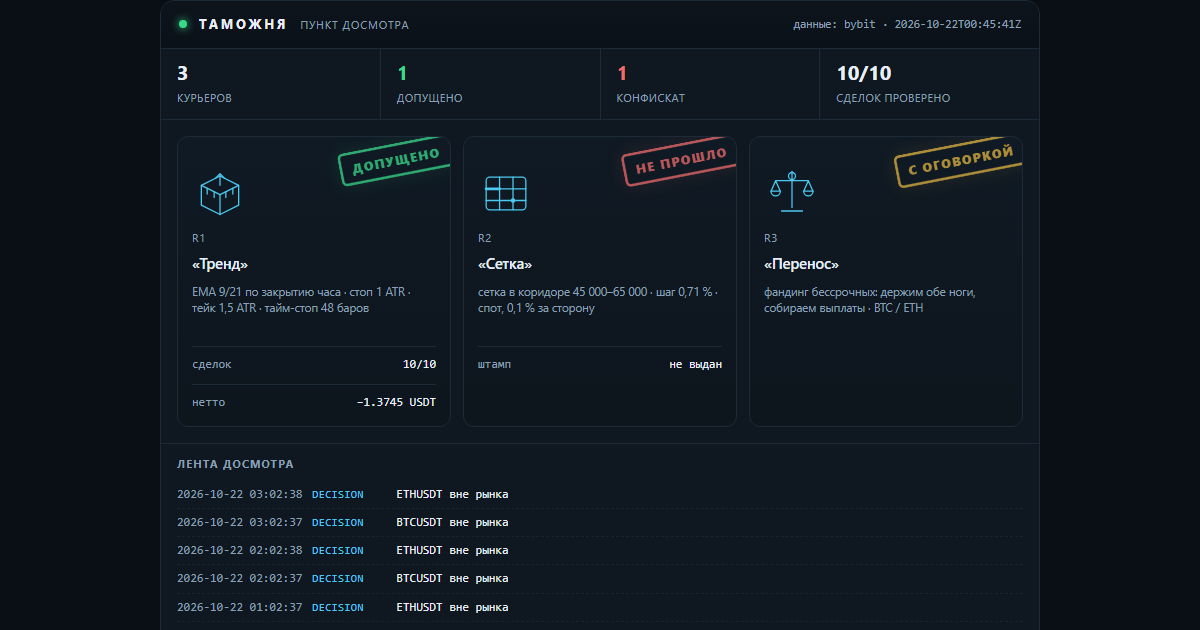
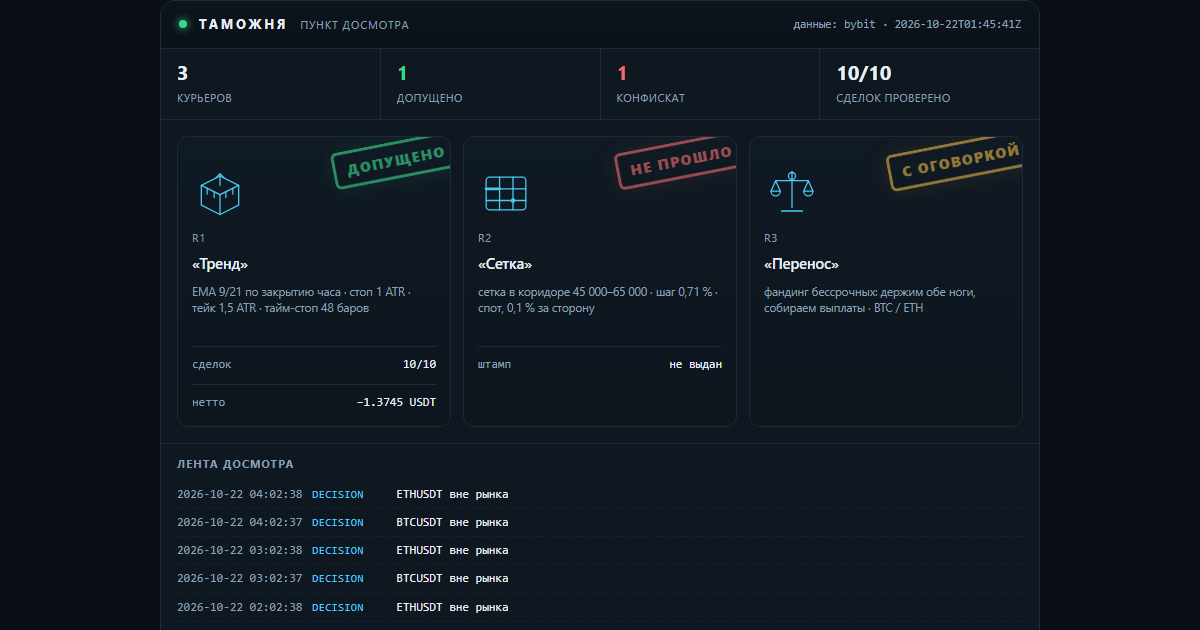
lab: таможня — свежие числа досмотра

Changed region(s): [[0.74, 0.2111, 0.8633, 0.3016], [0.4933, 0.2111, 0.6167, 0.3016], [0.2775, 0.2111, 0.37, 0.3016]]

diff --git a/docs/customs.html b/docs/customs.html
@@ -16,7 +16,7 @@
   <h1><a href="index.html">Gramwright Lab</a></h1>
   <p>Журнал проверки торговых гипотез: что проверяли, что вышло по факту, сколько съели издержки. Числа берутся из журнала стенда. Не инвестиционная рекомендация.</p>
 </header>
-<h1>Таможня</h1><p class="intro">Пункт досмотра заявленных результатов. Стратегии приезжают с грузом обещаний, и каждая проходит проверку по публичным данным биржи: цены существуют, комиссии по тарифу, нетто сходится. Что прошло — получает штамп. Что не прошло — в конфискат, с причиной. Штамп означает «записи подлинные», а не «стратегия прибыльна».</p><p><img src="img/customs.png" alt="Терминал досмотра: три курьера, штампы, лента событий" style="width:100%;height:auto;border:1px solid var(--line);border-radius:10px"></p><p class="c-note">Сверху — тот же терминал, что собирается из журналов: счётчики, эмблемы курьеров, штампы и лента последних событий. Ниже — то же самое текстом, чтобы читалось с телефона и индексировалось поиском.</p><article><h2>R1 «Тренд» <span class="verdict">— <span class="c-ok">допущено</span></span></h2><p><strong>Правило:</strong> EMA 9/21 по закрытию часа · стоп 1 ATR · тейк 1,5 ATR · тайм-стоп 48 баров</p><p><strong>Декларация:</strong> Заявлено до прогона: держать 30 сделок, лимит нотионала 10 % от счёта, стоп дня −1 %. Прибыль не заявлялась — это важно: курьер не обещал доход.</p><p><strong>Проверено по публичным свечам, без ключей:</strong> 10 из 10 сделок. Сумма нетто −1.3745 USDT.</p><ul class="c-chk"><li class="y">BTCUSDT: нетто −0.8746 USDT · комиссии 0.0901 · проверено · с поправкой</li><li class="y">BTCUSDT: нетто −0.5441 USDT · комиссии 0.0896 · проверено</li><li class="y">ETHUSDT: нетто −0.2253 USDT · комиссии 0.0266 · проверено</li><li class="y">ETHUSDT: нетто −0.1513 USDT · комиссии 0.0265 · проверено</li><li class="y">ETHUSDT: нетто +0.1984 USDT · комиссии 0.0262 · проверено</li><li class="y">ETHUSDT: нетто +0.1617 USDT · комиссии 0.0260 · проверено</li><li class="y">ETHUSDT: нетто +0.2645 USDT · комиссии 0.0263 · проверено</li><li class="y">BTCUSDT: нетто +0.6246 USDT · комиссии 0.0897 · проверено</li><li class="y">BTCUSDT: нетто −0.5881 USDT · комиссии 0.0910 · проверено</li><li class="y">ETHUSDT: нетто −0.2403 USDT · комиссии 0.0270 · проверено</li></ul><p class="tags">журнал sha256 1f1fe0cc887e8795… · проверяльщик verify-1</p><p class="c-note">Штамп означает: записи подлинные, а не что стратегия прибыльна. Курьер в минусе, и минус тоже стоит на штампе — иначе это была бы не проверка, а реклама.</p><p class="tags">источник: verify-report.json</p></article><article><h2>R2 «Сетка» <span class="verdict">— <span class="c-bad">не прошло</span></span></h2><p><strong>Правило:</strong> сетка в коридоре 45 000–65 000 · шаг 0,71 % · спот, 0,1 % за сторону</p><p><strong>Декларация:</strong> Заявлено: «44 % урожая уходит бирже в виде комиссий». Кроме того — перевес над простым владением монетой.</p><p><strong>Что сошлось:</strong></p><ul class="c-chk"><li class="y">сами числа пересчитаны и воспроизводятся: коридор 45–65k был активен 23 % всей истории и 28 % последних двух лет</li></ul><p><strong>Что не сошлось:</strong></p><ul class="c-chk"><li class="n">44 % не подтвердилось: при шаге 0,71 % и тарифе 0,1 % комиссия съедает 28,3 % шага. Чтобы получить 44 %, нужен шаг 0,45 % — это около 80 уровней, а не 50</li><li class="n">от урожая доля комиссий 85,5 % за всю историю и 49,6 % за последние два года — тоже не 44 %</li><li class="n">перевес над владением посчитан на тарифе 0,055 %: при нём +1,32 п. п., на розничном 0,1 % — −0,72 п. п. То есть перевес исчезает</li><li class="n">семилетний тест стартовал в сентябре 2019 при биткоине около 10 000 — ниже коридора. Он говорит, что фиксированный коридор не подходит для периода, а не что сетка отстаёт</li></ul><p class="tags">источник: lab_grid.py, пересчёт 17.10.2026</p></article><article><h2>R3 «Перенос» <span class="verdict">— <span class="c-warn">с оговоркой</span></span></h2><p><strong>Правило:</strong> фандинг бессрочных: держим обе ноги, собираем выплаты · BTC / ETH</p><p><strong>Декларация:</strong> Заявлено: около 11,9 % в год от выплат фандинга при просадке выплатной кривой меньше 2 %.</p><p><strong>Что сошлось:</strong></p><ul class="c-chk"><li class="y">выплаты взяты из публичной истории биржи, ключей не нужно: BTC — 7 190 выплат с 25.03.2020, ETH — 6 561 с 21.10.2020</li><li class="y">сумма сходится: +83,4 % и +83,2 % за 6,6 и 6,0 года — те самые ~11,9 % в год</li><li class="y">худшая просадка выплатной кривой: −1,65 % и −1,97 %</li></ul><p><strong>Что не сошлось:</strong></p><ul class="c-chk"><li class="n">оговорка 1: премию сжали — 2021 год дал +38,3 %, 2026 — +1,96 %. Прошлое не повторяется</li><li class="n">оговорка 2: вход-выход стоит около 0,31 %, капитала нужно 1,2 от нотионала, текущий базис −0,082 % против входа</li><li class="n">оговорка 3: риск площадки. История FTX в этой же таблице выглядела так же прилично</li></ul><p class="tags">источник: публичная история фандинга Bybit, замер 17.10.2026</p></article><div class="c-conf"><h3>Конфискат</h3><p><strong>«Сетка»: заявленные 44 % комиссий не подтвердились.</strong> Досмотр показал 28,3 % от шага и 85,5 % от урожая — цифра хуже заявленной по форме, но лучше по смыслу: сетку убивает не размер шага, а то, что урожай почти весь уходит в комиссии. Это и вышло в выпуск — с поправкой, а не с красивой цифрой.</p></div><p class="c-note">Пломба: <code>2026-10-22T00:45:41Z</code> · нотариус FreeTSA · Oct 22 00:45:40 2026 GMT · подпись подтверждена. Манифест скрепляет отчёт проверки, журнал сделок и декларации курьеров: подменишь любую цифру — пломба перестанет сходиться.</p><p class="c-note">Досмотр идёт по публичным минутным свечам и публичной истории фандинга — ключей у проверяющего нет, и он может повторить проверку сам.</p><p class="c-note">Контент образовательный, не является инвестиционной рекомендацией. Торговля связана с риском потери капитала.</p>
+<h1>Таможня</h1><p class="intro">Пункт досмотра заявленных результатов. Стратегии приезжают с грузом обещаний, и каждая проходит проверку по публичным данным биржи: цены существуют, комиссии по тарифу, нетто сходится. Что прошло — получает штамп. Что не прошло — в конфискат, с причиной. Штамп означает «записи подлинные», а не «стратегия прибыльна».</p><p><img src="img/customs.png" alt="Терминал досмотра: три курьера, штампы, лента событий" style="width:100%;height:auto;border:1px solid var(--line);border-radius:10px"></p><p class="c-note">Сверху — тот же терминал, что собирается из журналов: счётчики, эмблемы курьеров, штампы и лента последних событий. Ниже — то же самое текстом, чтобы читалось с телефона и индексировалось поиском.</p><article><h2>R1 «Тренд» <span class="verdict">— <span class="c-ok">допущено</span></span></h2><p><strong>Правило:</strong> EMA 9/21 по закрытию часа · стоп 1 ATR · тейк 1,5 ATR · тайм-стоп 48 баров</p><p><strong>Декларация:</strong> Заявлено до прогона: держать 30 сделок, лимит нотионала 10 % от счёта, стоп дня −1 %. Прибыль не заявлялась — это важно: курьер не обещал доход.</p><p><strong>Проверено по публичным свечам, без ключей:</strong> 10 из 10 сделок. Сумма нетто −1.3745 USDT.</p><ul class="c-chk"><li class="y">BTCUSDT: нетто −0.8746 USDT · комиссии 0.0901 · проверено · с поправкой</li><li class="y">BTCUSDT: нетто −0.5441 USDT · комиссии 0.0896 · проверено</li><li class="y">ETHUSDT: нетто −0.2253 USDT · комиссии 0.0266 · проверено</li><li class="y">ETHUSDT: нетто −0.1513 USDT · комиссии 0.0265 · проверено</li><li class="y">ETHUSDT: нетто +0.1984 USDT · комиссии 0.0262 · проверено</li><li class="y">ETHUSDT: нетто +0.1617 USDT · комиссии 0.0260 · проверено</li><li class="y">ETHUSDT: нетто +0.2645 USDT · комиссии 0.0263 · проверено</li><li class="y">BTCUSDT: нетто +0.6246 USDT · комиссии 0.0897 · проверено</li><li class="y">BTCUSDT: нетто −0.5881 USDT · комиссии 0.0910 · проверено</li><li class="y">ETHUSDT: нетто −0.2403 USDT · комиссии 0.0270 · проверено</li></ul><p class="tags">журнал sha256 b2feeee24aaf9b48… · проверяльщик verify-1</p><p class="c-note">Штамп означает: записи подлинные, а не что стратегия прибыльна. Курьер в минусе, и минус тоже стоит на штампе — иначе это была бы не проверка, а реклама.</p><p class="tags">источник: verify-report.json</p></article><article><h2>R2 «Сетка» <span class="verdict">— <span class="c-bad">не прошло</span></span></h2><p><strong>Правило:</strong> сетка в коридоре 45 000–65 000 · шаг 0,71 % · спот, 0,1 % за сторону</p><p><strong>Декларация:</strong> Заявлено: «44 % урожая уходит бирже в виде комиссий». Кроме того — перевес над простым владением монетой.</p><p><strong>Что сошлось:</strong></p><ul class="c-chk"><li class="y">сами числа пересчитаны и воспроизводятся: коридор 45–65k был активен 23 % всей истории и 28 % последних двух лет</li></ul><p><strong>Что не сошлось:</strong></p><ul class="c-chk"><li class="n">44 % не подтвердилось: при шаге 0,71 % и тарифе 0,1 % комиссия съедает 28,3 % шага. Чтобы получить 44 %, нужен шаг 0,45 % — это около 80 уровней, а не 50</li><li class="n">от урожая доля комиссий 85,5 % за всю историю и 49,6 % за последние два года — тоже не 44 %</li><li class="n">перевес над владением посчитан на тарифе 0,055 %: при нём +1,32 п. п., на розничном 0,1 % — −0,72 п. п. То есть перевес исчезает</li><li class="n">семилетний тест стартовал в сентябре 2019 при биткоине около 10 000 — ниже коридора. Он говорит, что фиксированный коридор не подходит для периода, а не что сетка отстаёт</li></ul><p class="tags">источник: lab_grid.py, пересчёт 17.10.2026</p></article><article><h2>R3 «Перенос» <span class="verdict">— <span class="c-warn">с оговоркой</span></span></h2><p><strong>Правило:</strong> фандинг бессрочных: держим обе ноги, собираем выплаты · BTC / ETH</p><p><strong>Декларация:</strong> Заявлено: около 11,9 % в год от выплат фандинга при просадке выплатной кривой меньше 2 %.</p><p><strong>Что сошлось:</strong></p><ul class="c-chk"><li class="y">выплаты взяты из публичной истории биржи, ключей не нужно: BTC — 7 190 выплат с 25.03.2020, ETH — 6 561 с 21.10.2020</li><li class="y">сумма сходится: +83,4 % и +83,2 % за 6,6 и 6,0 года — те самые ~11,9 % в год</li><li class="y">худшая просадка выплатной кривой: −1,65 % и −1,97 %</li></ul><p><strong>Что не сошлось:</strong></p><ul class="c-chk"><li class="n">оговорка 1: премию сжали — 2021 год дал +38,3 %, 2026 — +1,96 %. Прошлое не повторяется</li><li class="n">оговорка 2: вход-выход стоит около 0,31 %, капитала нужно 1,2 от нотионала, текущий базис −0,082 % против входа</li><li class="n">оговорка 3: риск площадки. История FTX в этой же таблице выглядела так же прилично</li></ul><p class="tags">источник: публичная история фандинга Bybit, замер 17.10.2026</p></article><div class="c-conf"><h3>Конфискат</h3><p><strong>«Сетка»: заявленные 44 % комиссий не подтвердились.</strong> Досмотр показал 28,3 % от шага и 85,5 % от урожая — цифра хуже заявленной по форме, но лучше по смыслу: сетку убивает не размер шага, а то, что урожай почти весь уходит в комиссии. Это и вышло в выпуск — с поправкой, а не с красивой цифрой.</p></div><p class="c-note">Пломба: <code>2026-10-22T01:45:41Z</code> · нотариус FreeTSA · Oct 22 01:45:41 2026 GMT · подпись подтверждена. Манифест скрепляет отчёт проверки, журнал сделок и декларации курьеров: подменишь любую цифру — пломба перестанет сходиться.</p><p class="c-note">Досмотр идёт по публичным минутным свечам и публичной истории фандинга — ключей у проверяющего нет, и он может повторить проверку сам.</p><p class="c-note">Контент образовательный, не является инвестиционной рекомендацией. Торговля связана с риском потери капитала.</p>
 <footer class="site">
   Код стенда и аудитора: <a href="https://github.com/XSlaidx/truth-engine">XSlaidx/truth-engine</a>
   &middot; <a href="graveyard.html">кладбище правил</a>
